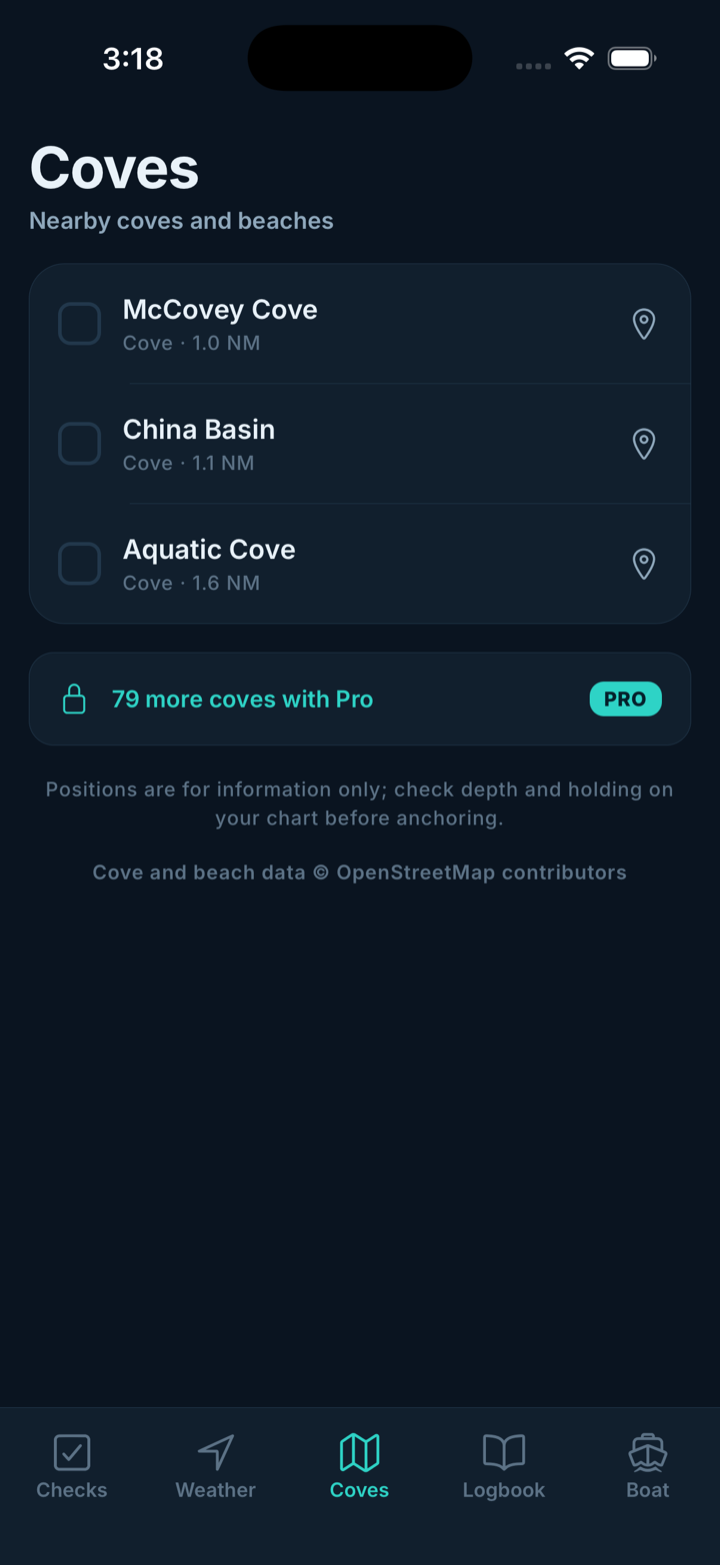
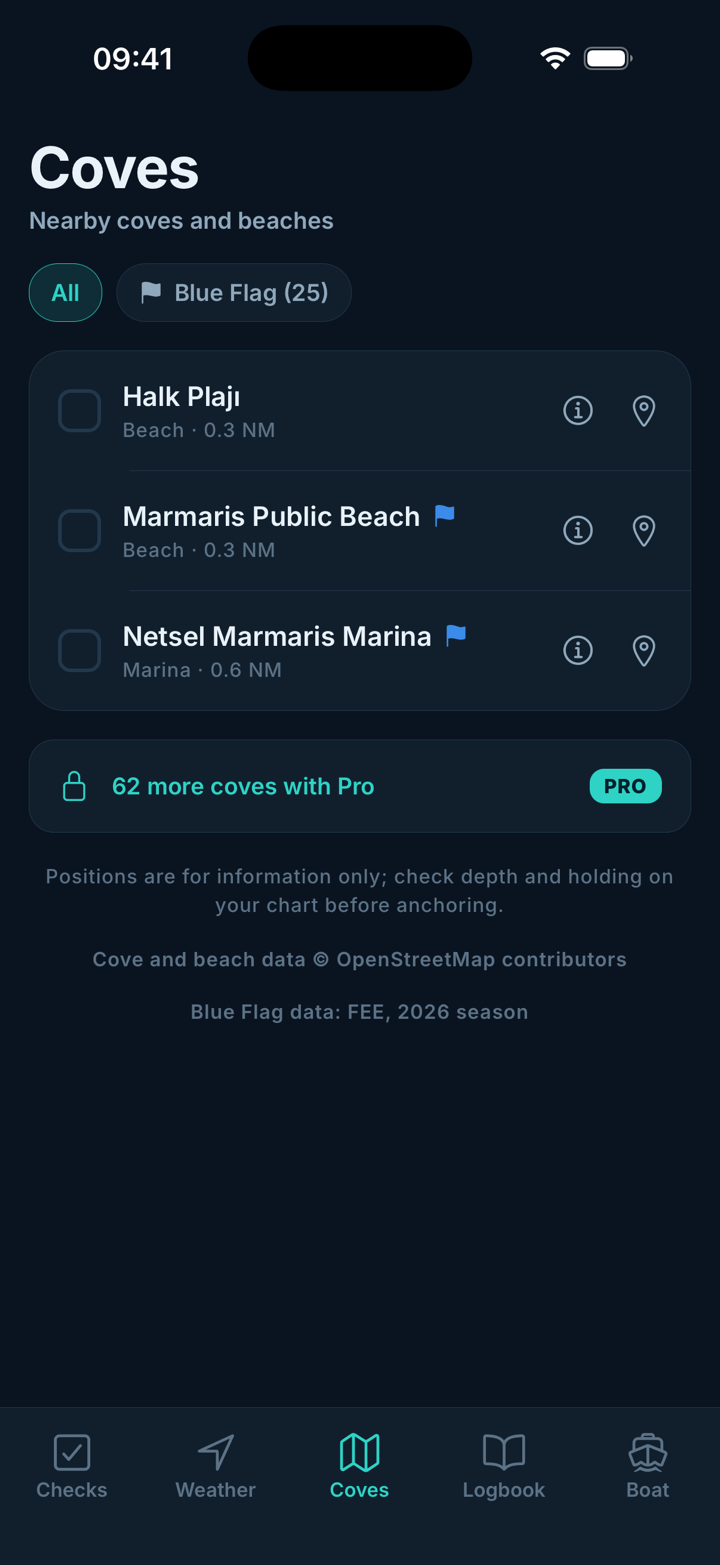
Mavi Bayrak özelliğini tanıtım sayfasına ekle
Koylar ve rota bölümüne Mavi Bayrak maddesi, fiyat tablosuna mavi
bayraklı yerler ve alt bilgiye FEE kaynak satırı eklendi. Koylar ekran
görüntüleri bayraklı plaj ve marinayı gösteren yenileriyle değiştirildi
(Marmaris). Tarayıcı eski görseli göstermesin diye ?v=2 eklendi.

diff --git a/index.html b/index.html
@@ -37,7 +37,7 @@
 
       <div class="stage">
         <div class="phone side left">
-          <img src="screens/tr/koylar.png" alt="Koylar ekranı: yakındaki koy ve plajlar, mesafeleriyle" width="720" height="1565">
+          <img src="screens/tr/koylar.png?v=2" alt="Koylar ekranı: yakındaki koy, plaj ve mavi bayraklı marinalar, mesafeleriyle" width="720" height="1565">
         </div>
         <div class="phone center">
           <img src="screens/tr/hava.png" alt="Hava ekranı: rüzgâr gülü, Beaufort kuvveti ve deniz durumu" width="720" height="1565">
@@ -132,6 +132,7 @@
         sıralar, bacakları çizer ve toplam mesafeyi verir.
       </p>
       <ul class="checks">
+        <li><strong>Mavi Bayrak:</strong> ödüllü plaj ve marinalar bayrakla işaretlenir, tek dokunuşla filtrelenir; çevrede yoksa en yakınları listelenir</li>
         <li><strong>Gerçek veri:</strong> koy ve plajlar OpenStreetMap'ten gelir</li>
         <li><strong>Deniz mili:</strong> mesafeler denizcinin birimiyle</li>
         <li><strong>Uygulama içi harita:</strong> başka uygulamaya atmaz</li>
@@ -194,7 +195,7 @@
         <li>Anlık rüzgâr, dalga ve deniz durumu</li>
         <li>Seyre uygunluk tavsiyesi</li>
         <li>6 saatlik rüzgâr, 2 günlük özet</li>
-        <li>Yakındaki 3 koy ve rota planlama</li>
+        <li>Yakındaki 3 koy veya mavi bayraklı yer ve rota planlama</li>
         <li>5 sefer kaydı</li>
         <li>İmdat ekranı, tekne bilgileri ve bildirimler — sınırsız</li>
       </ul>
@@ -206,7 +207,7 @@
         <li>6 hazır kontrol listesinin tamamı — 68 madde</li>
         <li>Kendi listelerinizi ve maddelerinizi ekleyin</li>
         <li>24 saatlik rüzgâr şeridi, 7 günlük tahmin</li>
-        <li>Yakındaki koyların tamamı</li>
+        <li>Yakındaki koyların ve mavi bayraklı yerlerin tamamı</li>
         <li>Sınırsız sefer kaydı</li>
         <li>Seyir defterini PDF olarak dışa aktarın</li>
       </ul>
@@ -223,7 +224,8 @@
   </p>
   <p class="fine">
     Hava ve deniz verileri: <a href="https://open-meteo.com">Open-Meteo</a> (CC BY 4.0) ·
-    Koy ve plaj verileri © <a href="https://www.openstreetmap.org">OpenStreetMap</a> katkıda bulunanları
+    Koy ve plaj verileri © <a href="https://www.openstreetmap.org">OpenStreetMap</a> katkıda bulunanları ·
+    Mavi Bayrak verileri: <a href="https://www.blueflag.global">FEE</a>, 2026 sezonu
   </p>
   <p class="fine">
     ViraCheck bir yardımcı araçtır; resmî denizcilik uyarılarının, seyir

diff --git a/index-en.html b/index-en.html
@@ -36,7 +36,7 @@
 
       <div class="stage">
         <div class="phone side left">
-          <img src="screens/en/koylar.png" alt="Coves screen listing nearby coves and beaches with distances" width="720" height="1565">
+          <img src="screens/en/koylar.png?v=2" alt="Coves screen listing nearby coves, beaches and Blue Flag marinas with distances" width="720" height="1565">
         </div>
         <div class="phone center">
           <img src="screens/en/hava.png" alt="Weather screen with the wind dial, Beaufort force and sea state" width="720" height="1565">
@@ -131,6 +131,7 @@
         and gives you the total distance.
       </p>
       <ul class="checks">
+        <li><strong>Blue Flag:</strong> awarded beaches and marinas are flagged and one tap away; if none are nearby, the closest ones are listed</li>
         <li><strong>Real data:</strong> coves and beaches come from OpenStreetMap</li>
         <li><strong>Nautical miles:</strong> distances in the skipper's own unit</li>
         <li><strong>In-app map:</strong> it never throws you into another app</li>
@@ -193,7 +194,7 @@
         <li>Current wind, waves and sea state</li>
         <li>The go/no-go call</li>
         <li>6 hours of wind, 2-day summary</li>
-        <li>3 nearby coves and route planning</li>
+        <li>3 nearby coves or Blue Flag sites and route planning</li>
         <li>5 logbook entries</li>
         <li>Distress screen, boat details and alerts — unlimited</li>
       </ul>
@@ -205,7 +206,7 @@
         <li>All 6 ready-made checklists — 68 items</li>
         <li>Add your own lists and items</li>
         <li>24-hour wind strip, 7-day forecast</li>
-        <li>All nearby coves</li>
+        <li>All nearby coves and Blue Flag sites</li>
         <li>Unlimited logbook entries</li>
         <li>Export your logbook as a PDF</li>
       </ul>
@@ -222,7 +223,8 @@
   </p>
   <p class="fine">
     Weather and marine data by <a href="https://open-meteo.com">Open-Meteo</a> (CC BY 4.0) ·
-    Cove and beach data © <a href="https://www.openstreetmap.org">OpenStreetMap</a> contributors
+    Cove and beach data © <a href="https://www.openstreetmap.org">OpenStreetMap</a> contributors ·
+    Blue Flag data: <a href="https://www.blueflag.global">FEE</a>, 2026 season
   </p>
   <p class="fine">
     ViraCheck is an aid, not a replacement for official maritime warnings,
